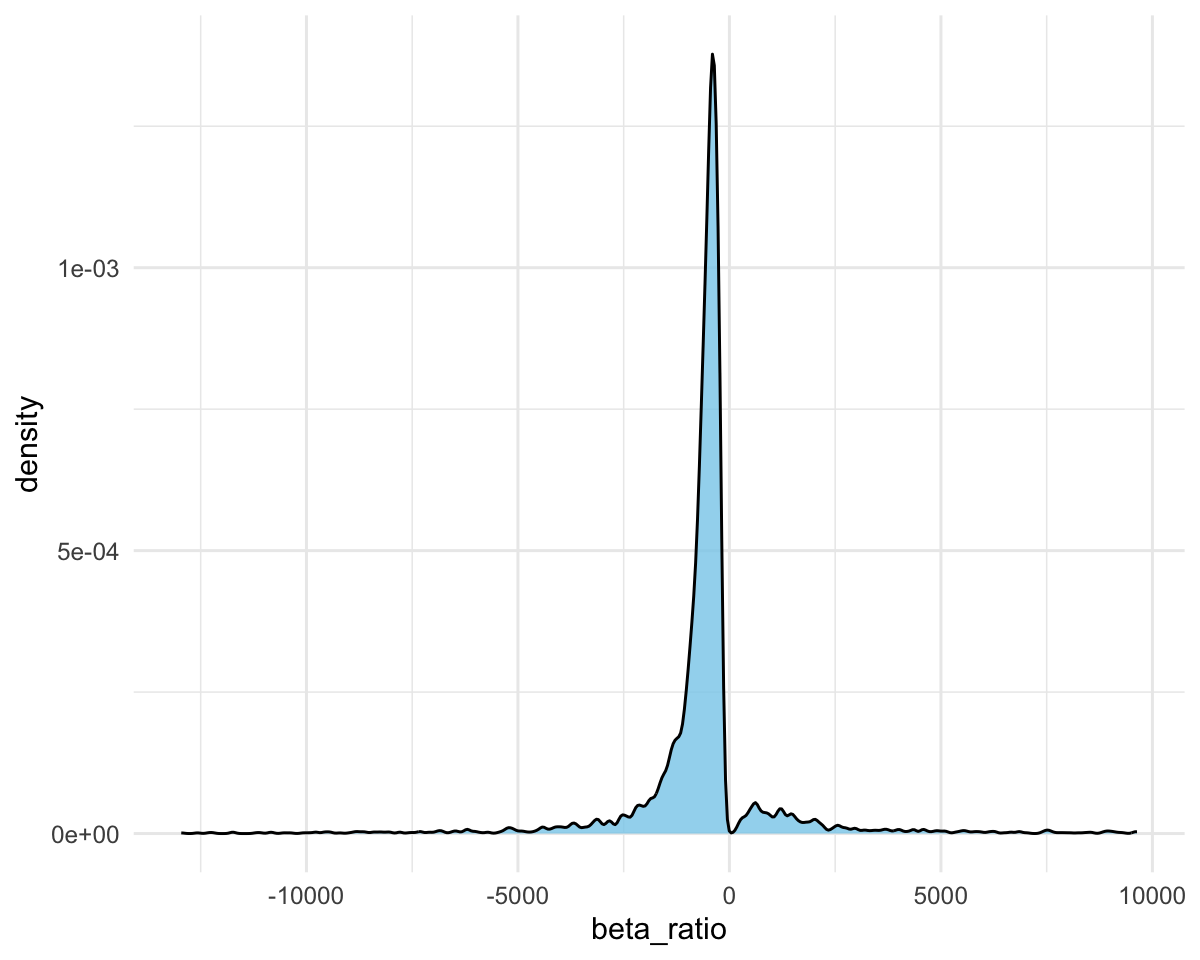
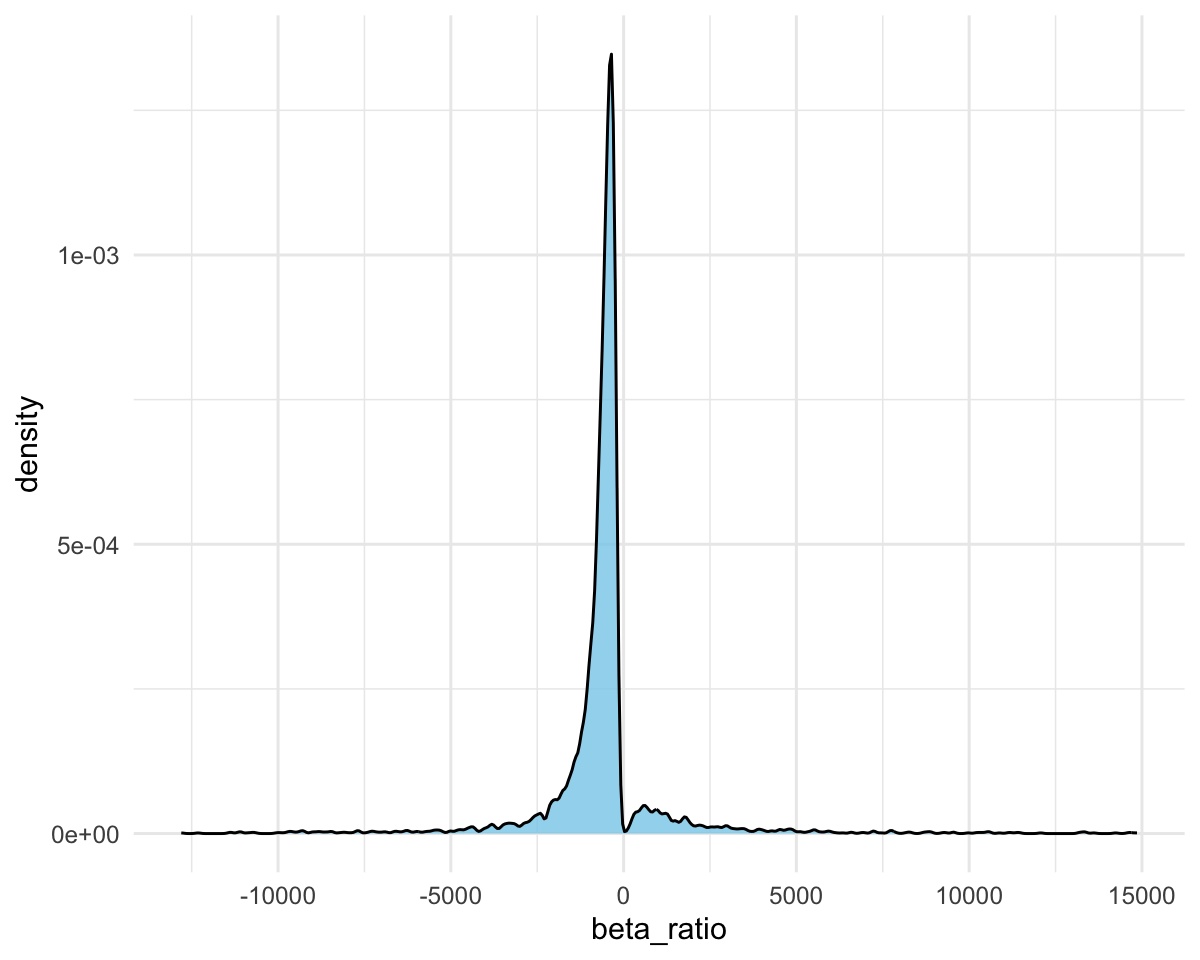
problem 3 - finished

diff --git a/p8105_hw6_xh2601.md b/p8105_hw6_xh2601.md
@@ -257,16 +257,16 @@ bootstrap_weather
     ## # A tibble: 5,000 × 3
     ##    .id      r2 beta_ratio
     ##    <chr> <dbl>      <dbl>
-    ##  1 0001  0.926      -316.
-    ##  2 0002  0.911      -728.
-    ##  3 0003  0.921      -426.
-    ##  4 0004  0.909     -2019.
-    ##  5 0005  0.924      -378.
-    ##  6 0006  0.914      -595.
-    ##  7 0007  0.913     -1284.
-    ##  8 0008  0.899      -745.
-    ##  9 0009  0.917      -257.
-    ## 10 0010  0.921      -270.
+    ##  1 0001  0.919      -318.
+    ##  2 0002  0.929      -252.
+    ##  3 0003  0.922      -342.
+    ##  4 0004  0.915     -1277.
+    ##  5 0005  0.905      -348.
+    ##  6 0006  0.928      -245.
+    ##  7 0007  0.922      -238.
+    ##  8 0008  0.920      -521.
+    ##  9 0009  0.917     -1349.
+    ## 10 0010  0.907     -3664.
     ## # ℹ 4,990 more rows
 
 3.  Plot the distribution of your estimates, and describe these in
@@ -328,7 +328,7 @@ summary(bootstrap_weather$beta_ratio)
 ```
 
     ##      Min.   1st Qu.    Median      Mean   3rd Qu.      Max. 
-    ## -722645.3    -846.4    -499.9    -115.5    -318.5 2917751.4
+    ## -431425.8    -844.5    -498.4    -527.4    -311.4  738108.7
 
 4.  Using the 5000 bootstrap estimates, identify the 2.5% and 97.5%
     quantiles to provide a 95% confidence interval
@@ -337,23 +337,111 @@ summary(bootstrap_weather$beta_ratio)
 # get 95% CI for both 
 ci_results = bootstrap_weather |> 
   summarize(
-    r2_mean = mean(r2),
     r2_ci_lower = quantile(r2, 0.025), 
     r2_ci_upper = quantile(r2, 0.975),
-    beta_ratio_mean = mean(beta_ratio),
     beta_ratio_ci_lower = quantile(beta_ratio, 0.025), 
     beta_ratio_ci_upper = quantile(beta_ratio, 0.975))
 ci_results
 ```
 
-    ## # A tibble: 1 × 6
-    ##   r2_mean r2_ci_lower r2_ci_upper beta_ratio_mean beta_ratio_ci_lower
-    ##     <dbl>       <dbl>       <dbl>           <dbl>               <dbl>
-    ## 1   0.913       0.894       0.928           -116.              -5220.
-    ## # ℹ 1 more variable: beta_ratio_ci_upper <dbl>
+    ## # A tibble: 1 × 4
+    ##   r2_ci_lower r2_ci_upper beta_ratio_ci_lower beta_ratio_ci_upper
+    ##         <dbl>       <dbl>               <dbl>               <dbl>
+    ## 1       0.893       0.928              -5475.               4805.
 
-The 95% confidence interval for R-squared is 0.8938882 to 0.9276035, the
-The 95% confidence interval for beta ratio is -5219.7853823 to
-4209.0410464.
+The 95% confidence interval for R-squared is 0.8934253 to 0.9283329, the
+The 95% confidence interval for beta ratio is -5475.4617998 to
+4805.4665066.
 
 ## Problem 3
+
+1.  Load and clean the data for regression analysis (i.e. use
+    appropriate variable names, convert numeric to factor where
+    appropriate, check for the presence of missing data, etc.).
+
+``` r
+birthweight_df = read_csv("data/birthweight.csv") |> 
+  janitor::clean_names() |> 
+  mutate(
+    babysex = factor(babysex),
+    frace = factor(frace),
+    malform = factor(malform),
+    mrace = factor(mrace)
+  )
+```
+
+    ## Rows: 4342 Columns: 20
+    ## ── Column specification ────────────────────────────────────────────────────────
+    ## Delimiter: ","
+    ## dbl (20): babysex, bhead, blength, bwt, delwt, fincome, frace, gaweeks, malf...
+    ## 
+    ## ℹ Use `spec()` to retrieve the full column specification for this data.
+    ## ℹ Specify the column types or set `show_col_types = FALSE` to quiet this message.
+
+2.  Propose a regression model for birthweight. This model may be based
+    on a hypothesized structure for the factors that underly
+    birthweight, on a data-driven model-building process, or a
+    combination of the two. Describe your modeling process and show a
+    plot of model residuals against fitted values – use add_predictions
+    and add_residuals in making this plot.
+
+Birthweight is influenced by a combination of maternal physiological
+characteristics and pregnancy-related developmental factors. Maternal
+height and pre-pregnancy weight reflect long-term nutritional status and
+genetic influences on fetal growth. In addition, weight gain during
+pregnancy and gestational age in weeks are indicators of the adequacy of
+fetal development and duration of intrauterine growth. Consistent with
+findings reported in the
+[literature](https://pmc.ncbi.nlm.nih.gov/articles/PMC11608488/#:~:text=The%20study%20found%20that%20the%20following%20factors,*%20Prenatal%20care%20*%20Parental%20education%20levels),
+maternal height, pre-pregnancy weight, and pregnancy weight gain were
+consistently associated with birthweight. Based on these hypothesized
+mechanisms and empirical support, I propose a regression model for
+birthweight using maternal pre-pregnancy BMI (**ppbmi**), mother’s
+weight gain during pregnancy in pounds (**wtgain**), and gestational age
+in weeks (**gaweeks**), as the predictors of baby’s birth weight in
+grams(**bwt**).
+
+``` r
+birth_mod = lm(bwt ~ ppbmi + wtgain + gaweeks, data = birthweight_df)
+summary(birth_mod)
+```
+
+    ## 
+    ## Call:
+    ## lm(formula = bwt ~ ppbmi + wtgain + gaweeks, data = birthweight_df)
+    ## 
+    ## Residuals:
+    ##      Min       1Q   Median       3Q      Max 
+    ## -1724.96  -295.64     3.05   295.40  1507.02 
+    ## 
+    ## Coefficients:
+    ##             Estimate Std. Error t value Pr(>|t|)    
+    ## (Intercept) 109.7702    97.2279   1.129    0.259    
+    ## ppbmi        17.0382     2.1785   7.821 6.53e-15 ***
+    ## wtgain        9.4856     0.6402  14.816  < 2e-16 ***
+    ## gaweeks      61.5746     2.2086  27.879  < 2e-16 ***
+    ## ---
+    ## Signif. codes:  0 '***' 0.001 '**' 0.01 '*' 0.05 '.' 0.1 ' ' 1
+    ## 
+    ## Residual standard error: 453.5 on 4338 degrees of freedom
+    ## Multiple R-squared:  0.2164, Adjusted R-squared:  0.2158 
+    ## F-statistic: 399.3 on 3 and 4338 DF,  p-value: < 2.2e-16
+
+``` r
+birth_aug = birthweight_df |> 
+  add_predictions(birth_mod) |> 
+  add_residuals(birth_mod)
+
+birth_aug |> 
+  ggplot(aes(x = pred, y = resid)) +
+  geom_point(alpha = 0.5) +
+  geom_hline(yintercept = 0, linetype = "dashed") +
+  labs(
+    x = "Fitted values",
+    y = "Residuals",
+    title = "Residuals vs Fitted Values for Birthweight Model"
+  ) +
+  theme_minimal()
+```
+
+<img src="p8105_hw6_xh2601_files/figure-gfm/unnamed-chunk-18-1.png" width="90%" />
